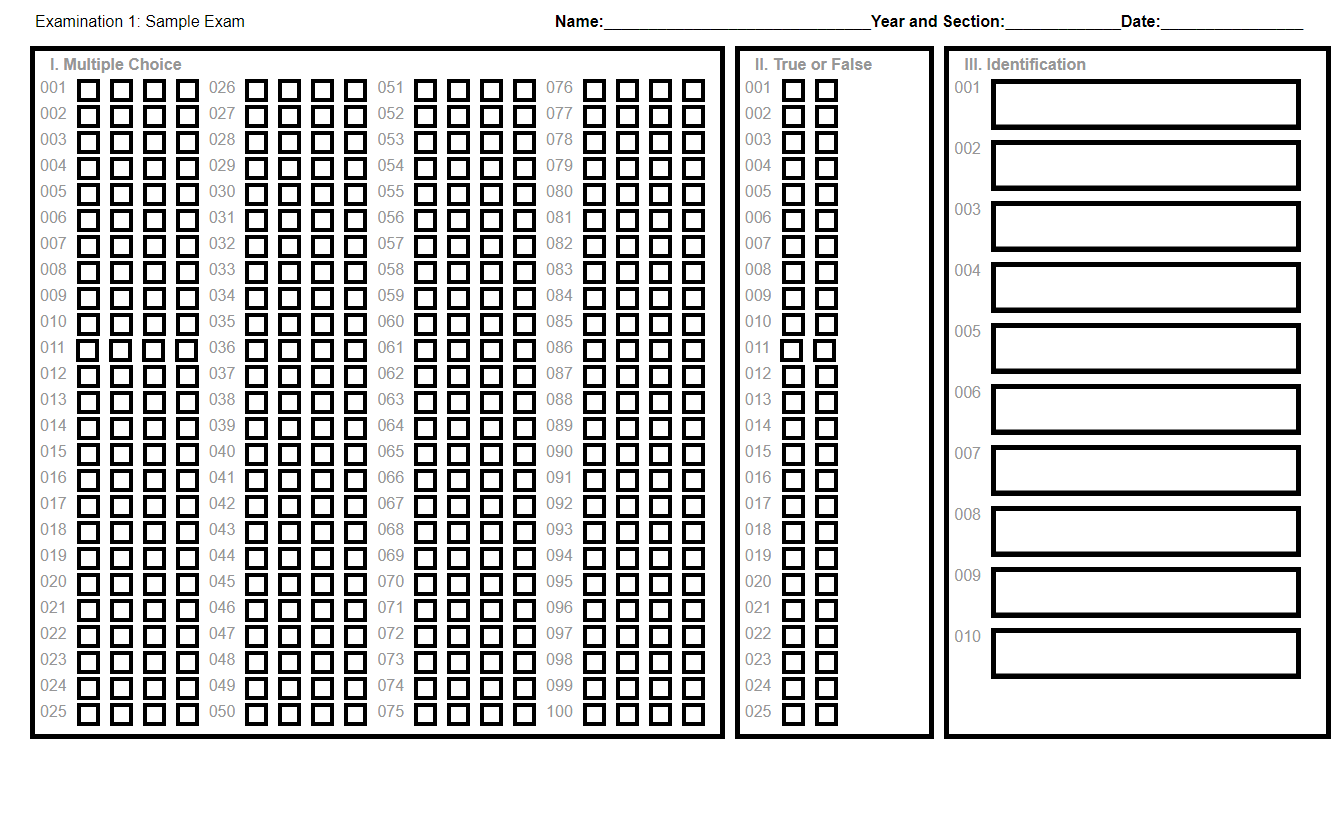
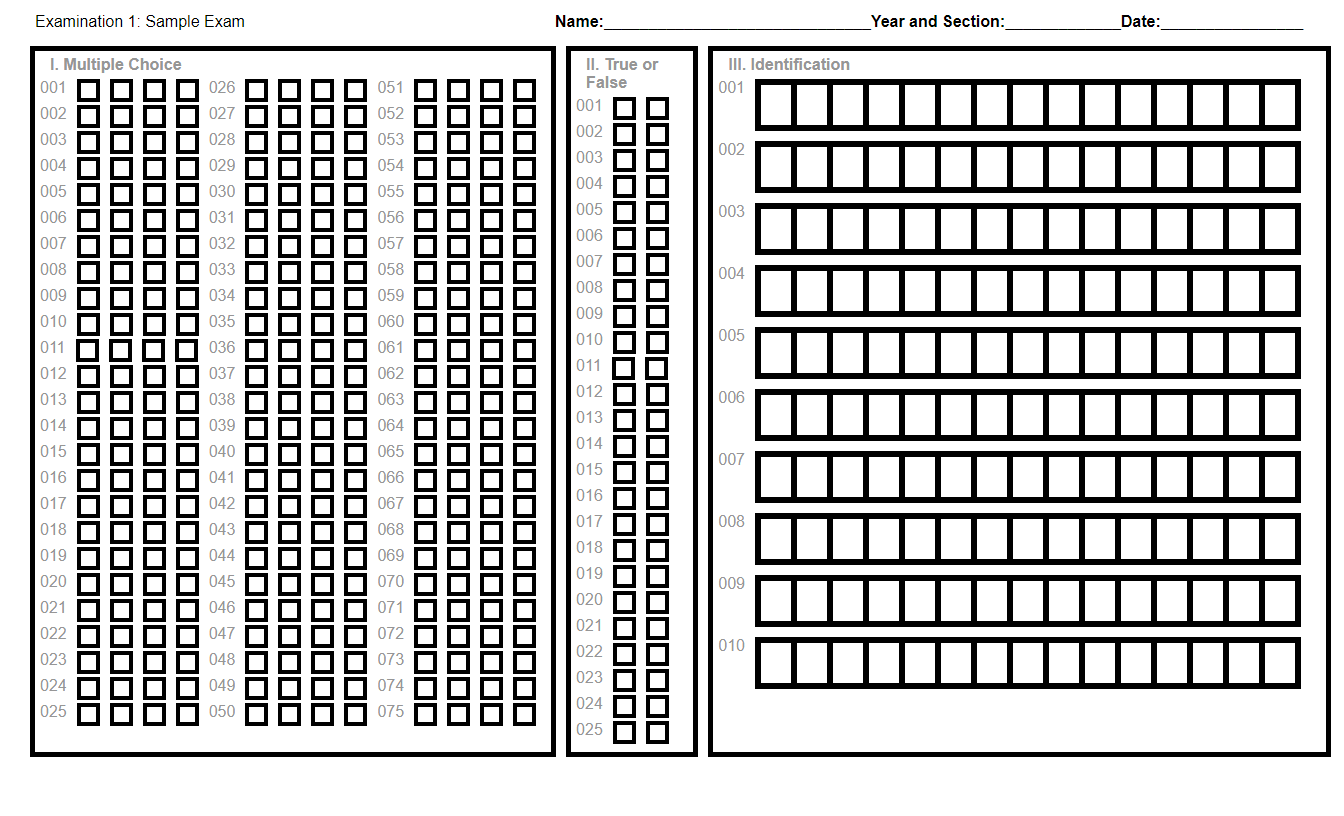
changed sheets util

Changed region(s): [[0.0312, 0.0613, 1.0, 0.9498]]

diff --git a/utilities/sheet/template.html b/utilities/sheet/template.html
@@ -98,14 +98,14 @@
                 
                 
                 border-style: solid;
-                border-width: 1;
+                border-width: 3;
                 border-color: black;
             }
             .box-instance{
                 display: flex;
                 flex-direction: row;
                 margin-left: 10px;
-                border: 0px;
+                border: 3px;
                 border-style: solid;
                 border-color: black;
             }
@@ -596,156 +596,6 @@
                                 <div class="circle"></div>
                                 <div class="circle"></div>
                                 <div class="circle"></div>
-                            </div></div><div class="column-inner"><div class="instance">
-                                076
-                                <div class="circle"></div>
-                                <div class="circle"></div>
-                                <div class="circle"></div>
-                                <div class="circle"></div>
-                            </div><div class="instance">
-                                077
-                                <div class="circle"></div>
-                                <div class="circle"></div>
-                                <div class="circle"></div>
-                                <div class="circle"></div>
-                            </div><div class="instance">
-                                078
-                                <div class="circle"></div>
-                                <div class="circle"></div>
-                                <div class="circle"></div>
-                                <div class="circle"></div>
-                            </div><div class="instance">
-                                079
-                                <div class="circle"></div>
-                                <div class="circle"></div>
-                                <div class="circle"></div>
-                                <div class="circle"></div>
-                            </div><div class="instance">
-                                080
-                                <div class="circle"></div>
-                                <div class="circle"></div>
-                                <div class="circle"></div>
-                                <div class="circle"></div>
-                            </div><div class="instance">
-                                081
-                                <div class="circle"></div>
-                                <div class="circle"></div>
-                                <div class="circle"></div>
-                                <div class="circle"></div>
-                            </div><div class="instance">
-                                082
-                                <div class="circle"></div>
-                                <div class="circle"></div>
-                                <div class="circle"></div>
-                                <div class="circle"></div>
-                            </div><div class="instance">
-                                083
-                                <div class="circle"></div>
-                                <div class="circle"></div>
-                                <div class="circle"></div>
-                                <div class="circle"></div>
-                            </div><div class="instance">
-                                084
-                                <div class="circle"></div>
-                                <div class="circle"></div>
-                                <div class="circle"></div>
-                                <div class="circle"></div>
-                            </div><div class="instance">
-                                085
-                                <div class="circle"></div>
-                                <div class="circle"></div>
-                                <div class="circle"></div>
-                                <div class="circle"></div>
-                            </div><div class="instance">
-                                086
-                                <div class="circle"></div>
-                                <div class="circle"></div>
-                                <div class="circle"></div>
-                                <div class="circle"></div>
-                            </div><div class="instance">
-                                087
-                                <div class="circle"></div>
-                                <div class="circle"></div>
-                                <div class="circle"></div>
-                                <div class="circle"></div>
-                            </div><div class="instance">
-                                088
-                                <div class="circle"></div>
-                                <div class="circle"></div>
-                                <div class="circle"></div>
-                                <div class="circle"></div>
-                            </div><div class="instance">
-                                089
-                                <div class="circle"></div>
-                                <div class="circle"></div>
-                                <div class="circle"></div>
-                                <div class="circle"></div>
-                            </div><div class="instance">
-                                090
-                                <div class="circle"></div>
-                                <div class="circle"></div>
-                                <div class="circle"></div>
-                                <div class="circle"></div>
-                            </div><div class="instance">
-                                091
-                                <div class="circle"></div>
-                                <div class="circle"></div>
-                                <div class="circle"></div>
-                                <div class="circle"></div>
-                            </div><div class="instance">
-                                092
-                                <div class="circle"></div>
-                                <div class="circle"></div>
-                                <div class="circle"></div>
-                                <div class="circle"></div>
-                            </div><div class="instance">
-                                093
-                                <div class="circle"></div>
-                                <div class="circle"></div>
-                                <div class="circle"></div>
-                                <div class="circle"></div>
-                            </div><div class="instance">
-                                094
-                                <div class="circle"></div>
-                                <div class="circle"></div>
-                                <div class="circle"></div>
-                                <div class="circle"></div>
-                            </div><div class="instance">
-                                095
-                                <div class="circle"></div>
-                                <div class="circle"></div>
-                                <div class="circle"></div>
-                                <div class="circle"></div>
-                            </div><div class="instance">
-                                096
-                                <div class="circle"></div>
-                                <div class="circle"></div>
-                                <div class="circle"></div>
-                                <div class="circle"></div>
-                            </div><div class="instance">
-                                097
-                                <div class="circle"></div>
-                                <div class="circle"></div>
-                                <div class="circle"></div>
-                                <div class="circle"></div>
-                            </div><div class="instance">
-                                098
-                                <div class="circle"></div>
-                                <div class="circle"></div>
-                                <div class="circle"></div>
-                                <div class="circle"></div>
-                            </div><div class="instance">
-                                099
-                                <div class="circle"></div>
-                                <div class="circle"></div>
-                                <div class="circle"></div>
-                                <div class="circle"></div>
-                            </div><div class="instance">
-                                100
-                                <div class="circle"></div>
-                                <div class="circle"></div>
-                                <div class="circle"></div>
-                                <div class="circle"></div>
                             </div></div><div class="column-inner"></div></div></div>
 
                 <div class="column"><b class="type-test"><div class="start"></div>II. True or False</b><div class="column-group"><div class="column-inner"><div class="instance">
@@ -851,16 +701,16 @@
                             </div></div><div class="column-inner"></div></div></div>
 
                 <div class="column"><b class="type-test"><div class="start"></div>III. Identification</b><div class="column-group"><div class="column-inner"><div class="id-instance">001
-                        <div class="box-instance"><div class="box"></div><div class="box"></div><div class="box"></div><div class="box"></div><div class="box"></div><div class="box"></div><div class="box"></div><div class="box"></div><div class="box"></div><div class="box"></div><div class="box"></div><div class="box"></div><div class="box"></div><div class="box"></div><div class="box"></div><div class="box"></div><div class="box"></div><div class="box"></div><div class="box"></div><div class="box"></div></div></div><div class="id-instance">002
-                        <div class="box-instance"><div class="box"></div><div class="box"></div><div class="box"></div><div class="box"></div><div class="box"></div><div class="box"></div><div class="box"></div><div class="box"></div><div class="box"></div><div class="box"></div><div class="box"></div><div class="box"></div><div class="box"></div><div class="box"></div><div class="box"></div><div class="box"></div><div class="box"></div><div class="box"></div><div class="box"></div><div class="box"></div></div></div><div class="id-instance">003
-                        <div class="box-instance"><div class="box"></div><div class="box"></div><div class="box"></div><div class="box"></div><div class="box"></div><div class="box"></div><div class="box"></div><div class="box"></div><div class="box"></div><div class="box"></div><div class="box"></div><div class="box"></div><div class="box"></div><div class="box"></div><div class="box"></div><div class="box"></div><div class="box"></div><div class="box"></div><div class="box"></div><div class="box"></div></div></div><div class="id-instance">004
-                        <div class="box-instance"><div class="box"></div><div class="box"></div><div class="box"></div><div class="box"></div><div class="box"></div><div class="box"></div><div class="box"></div><div class="box"></div><div class="box"></div><div class="box"></div><div class="box"></div><div class="box"></div><div class="box"></div><div class="box"></div><div class="box"></div><div class="box"></div><div class="box"></div><div class="box"></div><div class="box"></div><div class="box"></div></div></div><div class="id-instance">005
-                        <div class="box-instance"><div class="box"></div><div class="box"></div><div class="box"></div><div class="box"></div><div class="box"></div><div class="box"></div><div class="box"></div><div class="box"></div><div class="box"></div><div class="box"></div><div class="box"></div><div class="box"></div><div class="box"></div><div class="box"></div><div class="box"></div><div class="box"></div><div class="box"></div><div class="box"></div><div class="box"></div><div class="box"></div></div></div><div class="id-instance">006
-                        <div class="box-instance"><div class="box"></div><div class="box"></div><div class="box"></div><div class="box"></div><div class="box"></div><div class="box"></div><div class="box"></div><div class="box"></div><div class="box"></div><div class="box"></div><div class="box"></div><div class="box"></div><div class="box"></div><div class="box"></div><div class="box"></div><div class="box"></div><div class="box"></div><div class="box"></div><div class="box"></div><div class="box"></div></div></div><div class="id-instance">007
-                        <div class="box-instance"><div class="box"></div><div class="box"></div><div class="box"></div><div class="box"></div><div class="box"></div><div class="box"></div><div class="box"></div><div class="box"></div><div class="box"></div><div class="box"></div><div class="box"></div><div class="box"></div><div class="box"></div><div class="box"></div><div class="box"></div><div class="box"></div><div class="box"></div><div class="box"></div><div class="box"></div><div class="box"></div></div></div><div class="id-instance">008
-                        <div class="box-instance"><div class="box"></div><div class="box"></div><div class="box"></div><div class="box"></div><div class="box"></div><div class="box"></div><div class="box"></div><div class="box"></div><div class="box"></div><div class="box"></div><div class="box"></div><div class="box"></div><div class="box"></div><div class="box"></div><div class="box"></div><div class="box"></div><div class="box"></div><div class="box"></div><div class="box"></div><div class="box"></div></div></div><div class="id-instance">009
-                        <div class="box-instance"><div class="box"></div><div class="box"></div><div class="box"></div><div class="box"></div><div class="box"></div><div class="box"></div><div class="box"></div><div class="box"></div><div class="box"></div><div class="box"></div><div class="box"></div><div class="box"></div><div class="box"></div><div class="box"></div><div class="box"></div><div class="box"></div><div class="box"></div><div class="box"></div><div class="box"></div><div class="box"></div></div></div><div class="id-instance">010
-                        <div class="box-instance"><div class="box"></div><div class="box"></div><div class="box"></div><div class="box"></div><div class="box"></div><div class="box"></div><div class="box"></div><div class="box"></div><div class="box"></div><div class="box"></div><div class="box"></div><div class="box"></div><div class="box"></div><div class="box"></div><div class="box"></div><div class="box"></div><div class="box"></div><div class="box"></div><div class="box"></div><div class="box"></div></div></div></div><div class="column-inner"></div></div></div>
+                        <div class="box-instance"><div class="box"></div><div class="box"></div><div class="box"></div><div class="box"></div><div class="box"></div><div class="box"></div><div class="box"></div><div class="box"></div><div class="box"></div><div class="box"></div><div class="box"></div><div class="box"></div><div class="box"></div><div class="box"></div><div class="box"></div></div></div><div class="id-instance">002
+                        <div class="box-instance"><div class="box"></div><div class="box"></div><div class="box"></div><div class="box"></div><div class="box"></div><div class="box"></div><div class="box"></div><div class="box"></div><div class="box"></div><div class="box"></div><div class="box"></div><div class="box"></div><div class="box"></div><div class="box"></div><div class="box"></div></div></div><div class="id-instance">003
+                        <div class="box-instance"><div class="box"></div><div class="box"></div><div class="box"></div><div class="box"></div><div class="box"></div><div class="box"></div><div class="box"></div><div class="box"></div><div class="box"></div><div class="box"></div><div class="box"></div><div class="box"></div><div class="box"></div><div class="box"></div><div class="box"></div></div></div><div class="id-instance">004
+                        <div class="box-instance"><div class="box"></div><div class="box"></div><div class="box"></div><div class="box"></div><div class="box"></div><div class="box"></div><div class="box"></div><div class="box"></div><div class="box"></div><div class="box"></div><div class="box"></div><div class="box"></div><div class="box"></div><div class="box"></div><div class="box"></div></div></div><div class="id-instance">005
+                        <div class="box-instance"><div class="box"></div><div class="box"></div><div class="box"></div><div class="box"></div><div class="box"></div><div class="box"></div><div class="box"></div><div class="box"></div><div class="box"></div><div class="box"></div><div class="box"></div><div class="box"></div><div class="box"></div><div class="box"></div><div class="box"></div></div></div><div class="id-instance">006
+                        <div class="box-instance"><div class="box"></div><div class="box"></div><div class="box"></div><div class="box"></div><div class="box"></div><div class="box"></div><div class="box"></div><div class="box"></div><div class="box"></div><div class="box"></div><div class="box"></div><div class="box"></div><div class="box"></div><div class="box"></div><div class="box"></div></div></div><div class="id-instance">007
+                        <div class="box-instance"><div class="box"></div><div class="box"></div><div class="box"></div><div class="box"></div><div class="box"></div><div class="box"></div><div class="box"></div><div class="box"></div><div class="box"></div><div class="box"></div><div class="box"></div><div class="box"></div><div class="box"></div><div class="box"></div><div class="box"></div></div></div><div class="id-instance">008
+                        <div class="box-instance"><div class="box"></div><div class="box"></div><div class="box"></div><div class="box"></div><div class="box"></div><div class="box"></div><div class="box"></div><div class="box"></div><div class="box"></div><div class="box"></div><div class="box"></div><div class="box"></div><div class="box"></div><div class="box"></div><div class="box"></div></div></div><div class="id-instance">009
+                        <div class="box-instance"><div class="box"></div><div class="box"></div><div class="box"></div><div class="box"></div><div class="box"></div><div class="box"></div><div class="box"></div><div class="box"></div><div class="box"></div><div class="box"></div><div class="box"></div><div class="box"></div><div class="box"></div><div class="box"></div><div class="box"></div></div></div><div class="id-instance">010
+                        <div class="box-instance"><div class="box"></div><div class="box"></div><div class="box"></div><div class="box"></div><div class="box"></div><div class="box"></div><div class="box"></div><div class="box"></div><div class="box"></div><div class="box"></div><div class="box"></div><div class="box"></div><div class="box"></div><div class="box"></div><div class="box"></div></div></div></div><div class="column-inner"></div></div></div>
             </div>
             <script>
                 window.onload = function() {

diff --git a/screens/camera.py b/screens/camera.py
@@ -15,7 +15,7 @@ import cv2
 #import screens.get_cam_params as cam_params
 from PIL import Image as Pimage
 from kivy.uix.boxlayout import BoxLayout
-
+from kivy.graphics import Color, Rectangle
 db = Debugger()
 db.run_debug = False
 sheet.omr_functions.db.run_debug=False
@@ -54,18 +54,14 @@ AP.init_jnius()
 # Kivy's PythonActivity bootstrap:
 
 
-class CameraWidget(FloatLayout):
+class CameraWidget(BoxLayout):
     def __init__(self, **kwargs):
-        self.count = 0
         super(CameraWidget, self).__init__(**kwargs)
         
         # Create a camera widget
         #highest_resolution = cam_params.get_highest_resolution()
         #print(highest_resolution)
         self.camera = Camera(play=True, resolution=(1280,720), opacity=0, size_hint=(1,1))
-        
-        
-        
         #self.camera.play = True
         #self.camera_is_on = False
         #self.camera.loaded
@@ -79,7 +75,7 @@ class CameraWidget(FloatLayout):
 
         # Create lines for the initial bounding box
         self.bounding_box = Line(points=[0, 0, 0, 0, 0, 0, 0, 0, 0, 0], width=2)
-        self.label = Label()
+        self.label = Label(color=(1, 0, 0, 1))
         self.label.text = 'Eugene'
         # Add bounding box to layout canvas
         #self.canvas.add(self.bounding_box)
@@ -91,9 +87,13 @@ class CameraWidget(FloatLayout):
         self.start_timer()
         self.timer_value = 0
         # Create an image widget to display the extracted frame
-        self.frame_image = Image(size_hint=(1,1), pos_hint={'center_x': 0.5, 'center_y': 0.5})
+        self.frame_image = Image(size_hint=(1,1), pos_hint={'center_x': 0.5, 'center_y': 0.5},allow_stretch=True, keep_ratio=True)
         self.add_widget(self.frame_image)
         self.add_widget(self.label)
+        self.remove_camera = False
+        self.orientation = 'vertical'
+        self.size_hint = (1,1)
+        self.pos_hint = {'center_x': 0.5, 'center_y': 0.3}
         
 
     def start_timer(self):
@@ -130,7 +130,8 @@ class CameraWidget(FloatLayout):
     
     def update_timer(self, dt):
         self.extract_frame(None)
-        self.start_timer()
+        if self.remove_camera == False:
+            self.start_timer()
     
     def get_quad_angles(self, points):
         """

diff --git a/utilities/sheet/sheet.py b/utilities/sheet/sheet.py
@@ -102,7 +102,7 @@ class BubbleSheet:
             for instance in range(1,times+1):
                 counter+=1
                 x_formatted = '{:03d}'.format(instance)
-                box = '<div class="box"></div>'*20
+                box = '<div class="box"></div>'*15
                 template += f"""<div class="id-instance">{x_formatted}
                         <div class="box-instance">{box}</div></div>"""
                 if counter == 10:
@@ -224,20 +224,19 @@ class BubbleSheet:
                 
             }}
             .box{{
-                width: 15px;
+                width: 30px;
                 height: 40px;
                 
                 
                 border-style: solid;
-                border-width: 0;
-                border-bottom-width: 0.6px;
-                border-color: gray;
+                border-width: 3;
+                border-color: black;
             }}
             .box-instance{{
                 display: flex;
                 flex-direction: row;
                 margin-left: 10px;
-                border: 5px;
+                border: 3px;
                 border-style: solid;
                 border-color: black;
             }}

diff --git a/main.py b/main.py
@@ -123,7 +123,7 @@ CustomScreenManager:
 
 <CheckScreen>:
     name: 'check'
-
+    
     canvas.before:
         Color:
             rgba: 1, 1, 1, 1  # White color
@@ -140,7 +140,6 @@ CustomScreenManager:
         id: camera_icon
         icon: "camera-outline"
         pos_hint: {"top":.2, "center_x": .5}
-        #on_press: root.switch_cam()
         on_release: root.switch_cam()
 
     MDIconButton:
@@ -168,12 +167,15 @@ class CheckScreen(Screen):
             self.camera_widget = CameraWidget()
             self.add_widget(self.camera_widget)
             self.cam_is_on = True
-            
         else:
             self.remove_widget(self.camera_widget)
+            self.camera_widget.remove_camera = True
+            self.camera_widget.camera.remove_from_cache()
+            self.camera_widget.camera.play = False
             del self.camera_widget.camera._camera
-            
+            del self.camera_widget
             self.cam_is_on = False
+            
 
     def __init__(self,**kwargs):
         super(CheckScreen, self).__init__(**kwargs)

diff --git a/utilities/sheet/test.py b/utilities/sheet/test.py
@@ -1,6 +1,6 @@
 from sheet import BubbleSheet
 
-sheet = BubbleSheet(mc_num = 100,
+sheet = BubbleSheet(mc_num = 75,
                     tf_num =25,
                     idtf_num = 10,
                     header_name = "Examination 1: Sample Exam")
